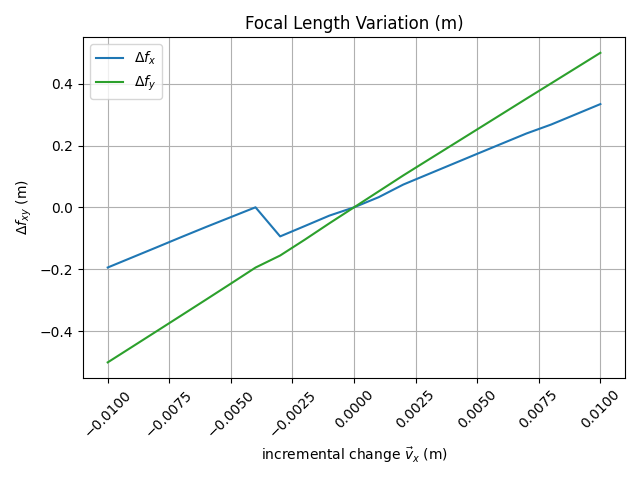
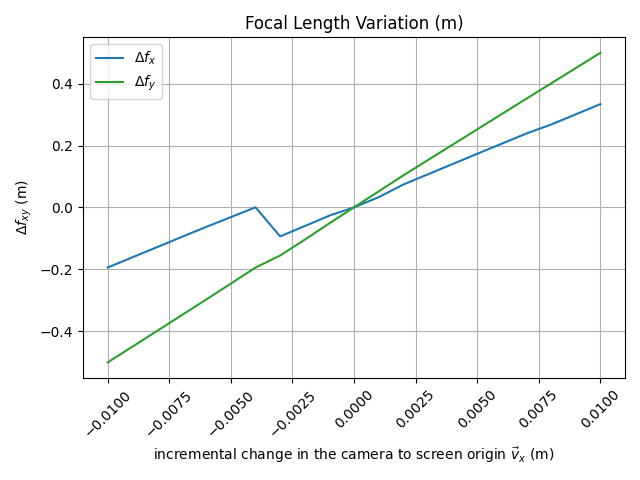
continued code development of enclosed energy plot

Changed region(s): [[0.2188, 0.9375, 0.875, 0.9688]]

diff --git a/contrib/app/Sensitivity Analysis/001 Single Parameter Analysis/001 Code Files/2026_07_22_sa_o_v_cam_screen_cam.py b/contrib/app/Sensitivity Analysis/001 Single Parameter Analysis/001 Code Files/2026_07_22_sa_o_v_cam_screen_cam.py
@@ -89,7 +89,6 @@ import copy
 import os
 import csv
 import subprocess
-from tqdm import tqdm
 
 ####### HELPER FUNCTIONS ######
 #### DO NOT MODIFY
@@ -424,6 +423,11 @@ def singleparametersa(
         raise KeyError(f"Expected exactly one dataset matching '{target_variable}'\n, found {len(target_path)}")
     target_path = target_path[0]
     original_values = data_dict[target_path]
+
+    # Squeeze singleton dimensions to handle single column 2D-Array
+    if isinstance(original_values, np.ndarray):
+        original_values = np.squeeze(original_values)
+
     modifications = increment_change(lower_limit, upper_limit, steps, naming_prefix, unit_sig=3)
 
     inifile_pathlist = []
@@ -476,7 +480,7 @@ def singleparametersa(
                     'file_facet': str(facet),
                     'file_measurement': str(measurement),
                     'file_calibration': str(calibration),
-                    'dir_save_root': f'{output_dir_path}/SOFAST_Results_2_{key}_row{i}',
+                    'dir_save_root': f'{output_dir_path}/SOFAST_Results_{key}_row{i}',
                 }
 
                 updated_id = {'measurement_id': measurement_id, 'post_process_id': post_process_id}
@@ -541,7 +545,7 @@ def singleparametersa(
                 'file_facet': str(facet),
                 'file_measurement': str(measurement),
                 'file_calibration': str(calibration),
-                'dir_save_root': f'{output_dir_path}/SOFAST_Results_2_{key}',
+                'dir_save_root': f'{output_dir_path}/SOFAST_Results_{key}',
             }
             updated_id = {'measurement_id': measurement_id, 'post_process_id': post_process_id}
             # create and save the ini file
@@ -579,48 +583,48 @@ def singleparametersa(
 ##### Update filepaths for the following variables #####
 
 # update parameter of interest
-target_variable = 'dist_optic_screen'
-target_variable_type = "m"
+target_variable = 'v_cam_screen_cam'
+target_variable_type = "o"
 
 # update file naming prefix. see documentation on file naming convention and parameter key list
-naming_prefix = 'mdAAA'
+naming_prefix = 'mdAAB'
 
 # update filepath for your scenario deck. File must be saved as csv.
-input_dir = 'C:/Users/nichowd/Desktop/Experiments/2026_07_21_single_param_sa_m_dist_optic_screen/001_input'
+input_dir = 'C:/Users/nichowd/Desktop/Experiments/2026_07_22_single_param_sa_o_v_cam_screen_cam/001_input'
 
 # update filepath for your output directory. All modified h5 files and related generated .ini files will be stored here.
-output_dir = "C:/Users/nichowd/Desktop/Experiments/2026_07_21_single_param_sa_m_dist_optic_screen/002_output"
+output_dir = "C:/Users/nichowd/Desktop/Experiments/2026_07_22_single_param_sa_o_v_cam_screen_cam/002_output"
 
 # update filepath for the unmodified h5 measurment input file to be used to generated newly modified h5 input file.
 sofast_measurement = (
-    "C:/Users/nichowd/Desktop/Experiments/2026_07_21_single_param_sa_m_dist_optic_screen/001_input/measurement_facet.h5"
+    "C:/Users/nichowd/Desktop/Experiments/2026_07_22_single_param_sa_o_v_cam_screen_cam/001_input/measurement_facet.h5"
 )
 
 # update filepath for the unmodified h5 orientation input file to be used to generated newly modified h5 input file.
-sofast_orientation = "C:/Users/nichowd/Desktop/Experiments/2026_07_21_single_param_sa_m_dist_optic_screen/001_input/spatial_orientation.h5"
+sofast_orientation = "C:/Users/nichowd/Desktop/Experiments/2026_07_22_single_param_sa_o_v_cam_screen_cam/001_input/spatial_orientation.h5"
 
 # update filepath for the unmodified h5 camera input file to be used to generated newly modified h5 input file.
-sofast_camera = "C:/Users/nichowd/Desktop/Experiments/2026_07_21_single_param_sa_m_dist_optic_screen/001_input/camera_sofast_downsampled.h5"
+sofast_camera = "C:/Users/nichowd/Desktop/Experiments/2026_07_22_single_param_sa_o_v_cam_screen_cam/001_input/camera_sofast_downsampled.h5"
 
 # update filepath for the unmodified h5 display input file to be used to generated newly modified h5 input file.
-sofast_display = "C:/Users/nichowd/Desktop/Experiments/2026_07_21_single_param_sa_m_dist_optic_screen/001_input/display_distorted_2d.h5"
+sofast_display = "C:/Users/nichowd/Desktop/Experiments/2026_07_22_single_param_sa_o_v_cam_screen_cam/001_input/display_distorted_2d.h5"
 
 # update filepath for the unmodified .json facet data file. This is only needed for generating filepath for facet data in .ini file.
 facet_data = (
-    "C:/Users/nichowd/Desktop/Experiments/2026_07_21_single_param_sa_m_dist_optic_screen/001_input/Facet_NSTTF.json"
+    "C:/Users/nichowd/Desktop/Experiments/2026_07_22_single_param_sa_o_v_cam_screen_cam/001_input/Facet_NSTTF.json"
 )
 
 # update filepath for the unmodified h5 calibration file. This is only needed for generating filepath for facet data in .ini file.
 sofast_calibration = (
-    "C:/Users/nichowd/Desktop/Experiments/2026_07_21_single_param_sa_m_dist_optic_screen/001_input/image_calibration.h5"
+    "C:/Users/nichowd/Desktop/Experiments/2026_07_22_single_param_sa_o_v_cam_screen_cam/001_input/image_calibration.h5"
 )
 
 # update filepath for your empty .ini file to be used to generate all new .ini file for each row-wise modifications.
-input_ini_template_path = "C:/Users/nichowd/Desktop/Experiments/2026_07_21_single_param_sa_m_dist_optic_screen/004_ini_files/ini_template_2_alan.ini"
+input_ini_template_path = "C:/Users/nichowd/Desktop/Experiments/2026_07_22_single_param_sa_o_v_cam_screen_cam/004_ini_files/ini_template_2_alan.ini"
 
 # update relevant identification information for the .ini files.
-measurement_id = "20260721"
-post_process_id = "dist_optic_screen"
+measurement_id = "test20260722"
+post_process_id = "nichowd"
 
 
 # after updating file paths above, run the function below to generate new input files, .ini files, and a .ini filepath list
